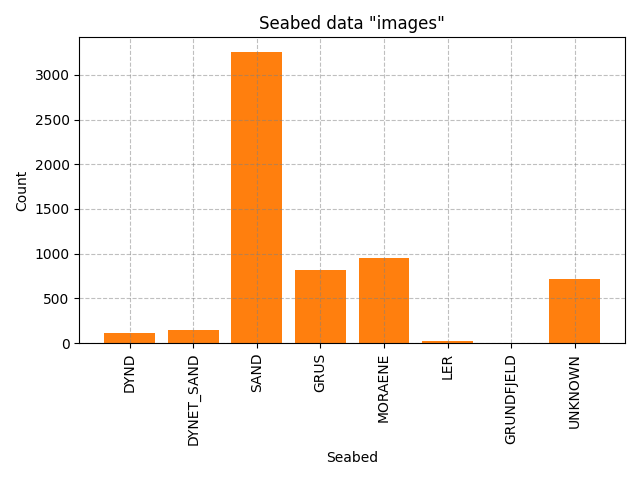
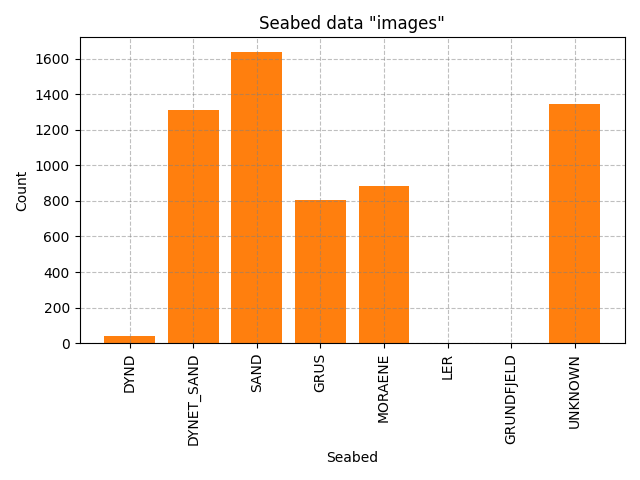
Update

diff --git a/sample_points_on_map.py b/sample_points_on_map.py
@@ -196,4 +196,4 @@ if __name__ == "__main__":
     points_file = 'points.xml'  # XML file of points to sample (obtained with "download_points.py")
 
     sample_points_on_map(tif_path, points_file)
-    # visualize_seabed_classification(points_file)
+    visualize_seabed_classification(points_file)
